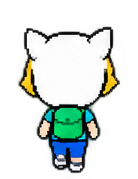
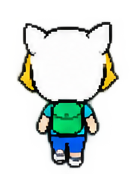
fix: align Finn frames on opaque feet and face walk frames right
Padding used the faint halo edge, leaving right1's feet 8px above the
others and causing a hop every cycle. Frames now share the opaque
(alpha > 128) feet row. The walk PNGs were drawn facing left despite
their names, so Finn walked backwards; they are mirrored to face right.

Changed region(s): [[0.1176, 0.1117, 0.8824, 0.9777]]

diff --git a/tests/mascot.test.js b/tests/mascot.test.js
@@ -313,15 +313,29 @@ await test('Unknown mascot IDs fall back to Finn and all registered PNG assets l
   }));
 });
 
-await test('Every Finn sprite shares one canvas size so frames do not rescale while walking', async () => {
+await test('Every Finn sprite shares one canvas size and feet baseline so frames do not jump while walking', async () => {
+  const OPAQUE_ALPHA = 128;
   const { idle, back, walkFrames } = MASCOTS.finn;
-  const sizes = await Promise.all([idle, back, ...walkFrames].map(async path => {
+  const frames = await Promise.all([idle, back, ...walkFrames].map(async path => {
     const image = new Image();
     image.src = runtime.getURL(path);
     await image.decode();
-    return `${image.naturalWidth}x${image.naturalHeight}`;
+    const canvas = document.createElement('canvas');
+    canvas.width = image.naturalWidth;
+    canvas.height = image.naturalHeight;
+    const context = canvas.getContext('2d');
+    context.drawImage(image, 0, 0);
+    const { data } = context.getImageData(0, 0, canvas.width, canvas.height);
+    let feet = -1;
+    for (let index = 3; index < data.length; index += 4) {
+      if (data[index] > OPAQUE_ALPHA) feet = Math.floor(index / 4 / canvas.width);
+    }
+    return { size: `${canvas.width}x${canvas.height}`, feet };
   }));
+  const sizes = frames.map(frame => frame.size);
+  const feet = frames.map(frame => frame.feet);
   assert(new Set(sizes).size === 1, `Sprite sizes differ: ${sizes.join(', ')}`);
+  assert(new Set(feet).size === 1, `Opaque feet rows differ: ${feet.join(', ')}`);
 });
 
 async function withReminderFixture(parameters, run) {
